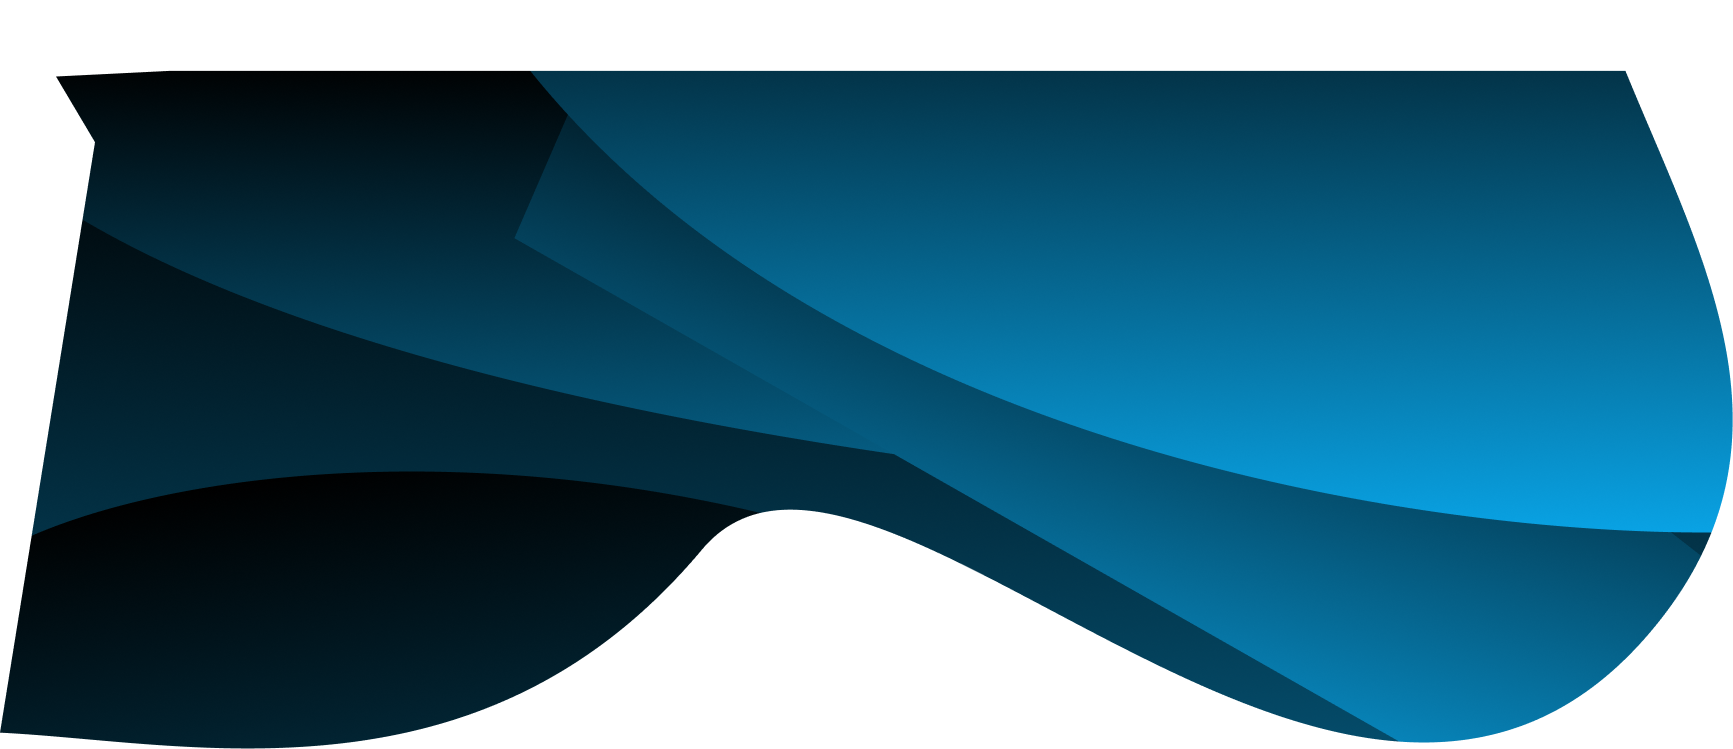
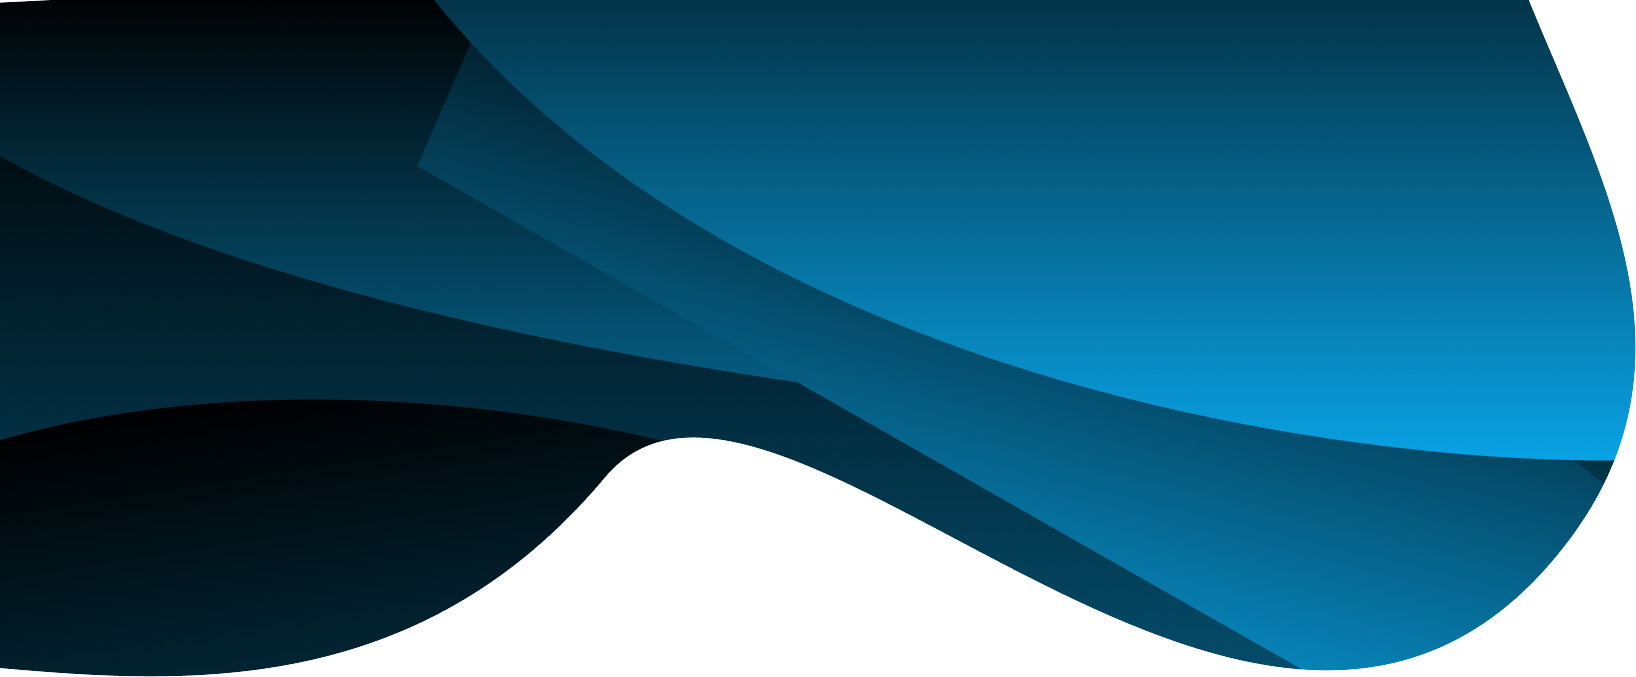
feat: create hero section

diff --git a/src/components/Hero.tsx b/src/components/Hero.tsx
@@ -1,0 +1,29 @@
+import Image from 'next/image'
+import React from 'react'
+import { FaArrowRight } from 'react-icons/fa'
+import { FaArrowRightToCity } from 'react-icons/fa6'
+
+const Hero = () => {
+  return (
+      <div className='h-screen bg-black'>
+          {/* <Image className="w-full" src="/assets/hero-wave.png" height={500} width={500} alt="wave" /> */}
+          <div className="flex  py-10">
+              <div className="left pl-10 w-[60%] gap-6 flex flex-col">
+              <div className='text-white text-5xl font-semibold'>Your Campus Commute, Simplified - <br></br> <span className='text-[#099BE4]'> Eco-friendly rides, socially connected!</span></div>
+                  <div className='text-xl text-white'>Welcome to Sync: the superapp by students, for students! <br></br>Carpool, connect, and simplify campus life with ease.</div>
+                  <div className="flex gap-6 items-center">
+                      <button className="px-6 py-4 h-fit max-w-xl text-white bg-[#099BE4] rounded-2xl text-lg font-medium shadow-lg shadow-white flex items-center gap-2">
+                          Register Now <FaArrowRight />
+                      </button>
+                      <Image className="w-fit rounded-full" src="/assets/thumbs-up-avatar.png" width={50} height={50} alt="Avatar" />
+                  </div>
+              </div>
+              <div className="w-[40%]">
+                  <Image className="w-[90%] my-16 " src="/assets/hero-people.png" width={900} height={900} alt="Group of People" />
+              </div>
+          </div>
+    </div>
+  )
+}
+
+export default Hero

diff --git a/src/app/page.tsx b/src/app/page.tsx
@@ -4,11 +4,15 @@ import FAQSection from '@/components/FAQ'
 import TopFooter from '@/components/TopFooter'
 import Footer from '@/components/Footer'
 import Navbar from "@/components/Navbar";
+import Hero from '@/components/Hero';
+import Calculator from '@/components/Calculator';
 
 export default function Home() {
   return (
     <main>
       <Navbar />
+      <Hero />
+      <Calculator />
       <ToggleSection />
       <FAQSection />
       <TopFooter />

diff --git a/src/components/Calculator.tsx b/src/components/Calculator.tsx
@@ -1,0 +1,13 @@
+import Image from 'next/image'
+import React from 'react'
+
+const Calculator = () => {
+  return (
+      <>
+          <Image className='w-[90%]' src="/assets/hero-map.png" width={8000} height={8000} alt="Hero Map" />
+     {/* TODO: Add the calculator code from previous website */}
+      </>
+  )
+}
+
+export default Calculator
